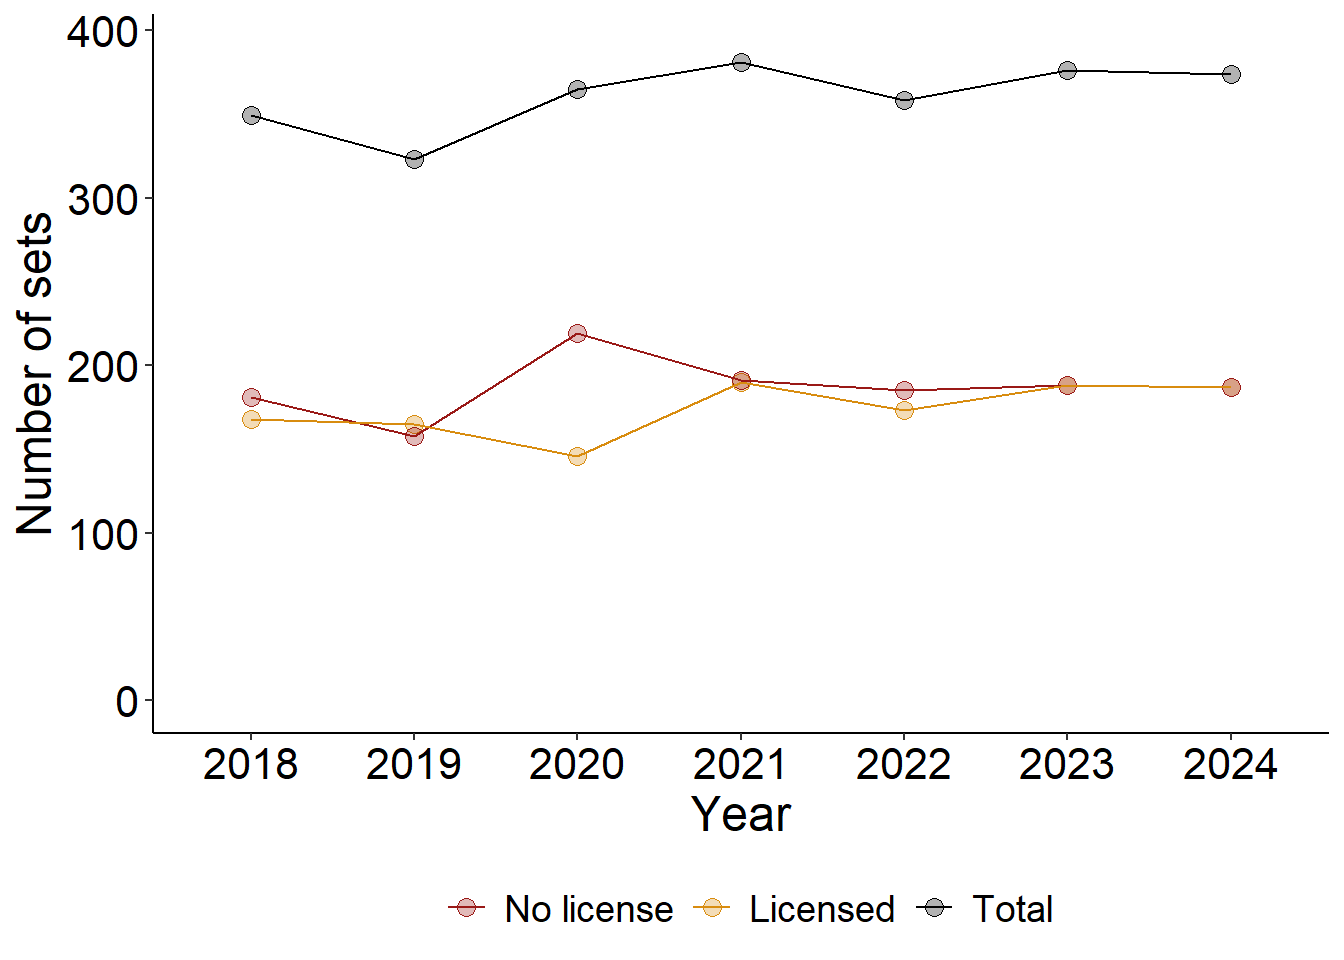
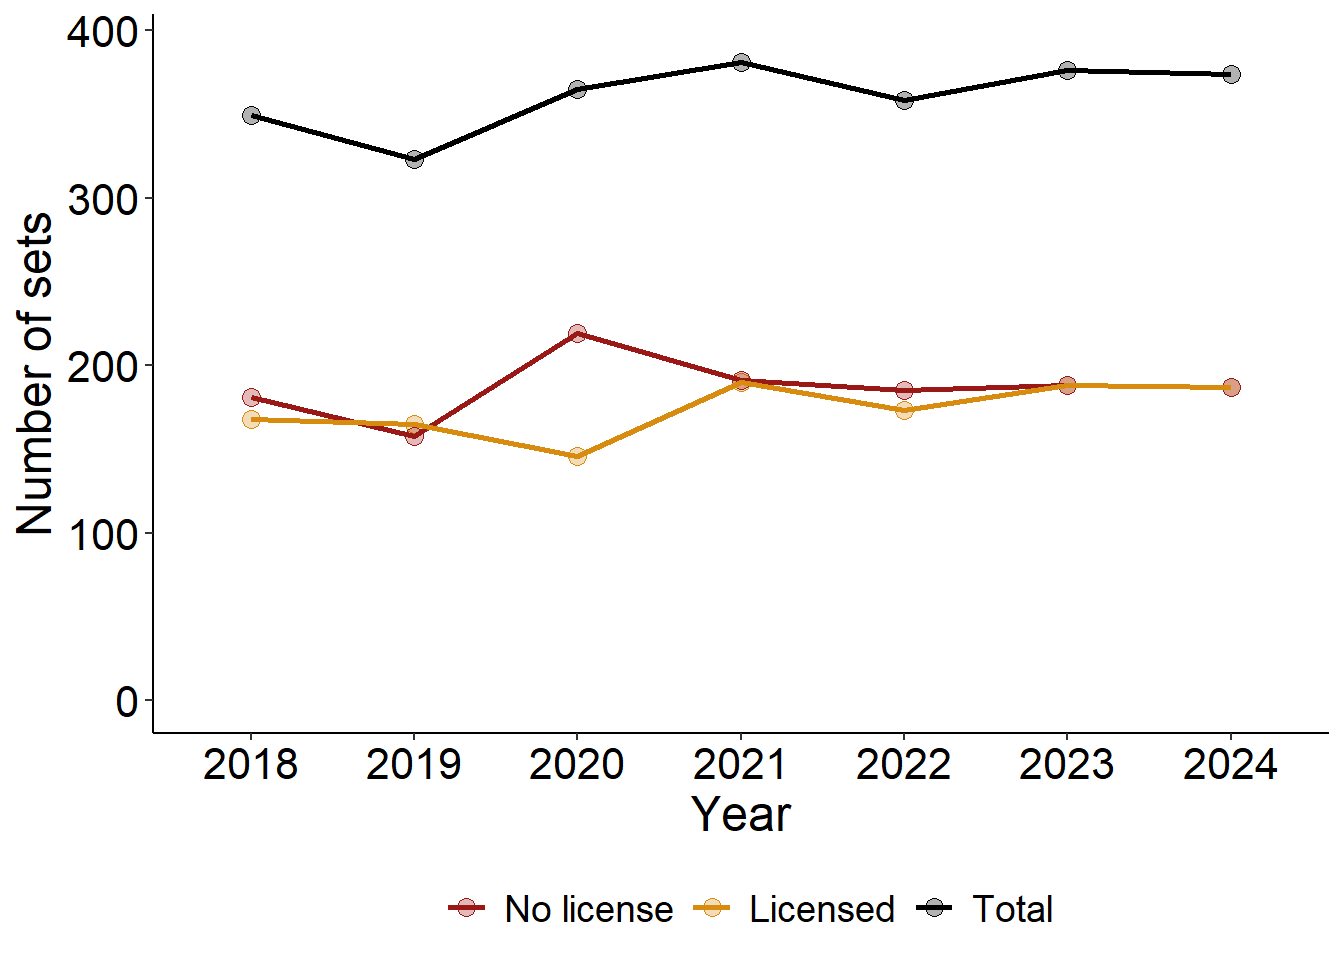
Update

diff --git a/docs/data_science_experience/posts/LegoSetPrices.html b/docs/data_science_experience/posts/LegoSetPrices.html
@@ -558,7 +558,7 @@ Table&nbsp;2: First 5 rows of <code>sets_18to24_filt</code>.
 <span id="cb7-9"><a href="#cb7-9" aria-hidden="true" tabindex="-1"></a></span>
 <span id="cb7-10"><a href="#cb7-10" aria-hidden="true" tabindex="-1"></a><span class="fu">ggplot</span>(df_release_yr) <span class="sc">+</span></span>
 <span id="cb7-11"><a href="#cb7-11" aria-hidden="true" tabindex="-1"></a>  <span class="fu">geom_point</span>(<span class="fu">aes</span>(<span class="at">x =</span> year, <span class="at">y =</span> n_sets, <span class="at">color =</span> License, <span class="at">fill =</span> License), <span class="at">pch =</span> <span class="dv">21</span>, <span class="at">size =</span> <span class="dv">3</span>) <span class="sc">+</span></span>
-<span id="cb7-12"><a href="#cb7-12" aria-hidden="true" tabindex="-1"></a>  <span class="fu">geom_line</span>(<span class="fu">aes</span>(<span class="at">x =</span> year, <span class="at">y =</span> n_sets, <span class="at">color =</span> License, <span class="at">group =</span> License)) <span class="sc">+</span></span>
+<span id="cb7-12"><a href="#cb7-12" aria-hidden="true" tabindex="-1"></a>  <span class="fu">geom_line</span>(<span class="fu">aes</span>(<span class="at">x =</span> year, <span class="at">y =</span> n_sets, <span class="at">color =</span> License, <span class="at">group =</span> License), <span class="at">linewidth =</span> <span class="dv">1</span>) <span class="sc">+</span></span>
 <span id="cb7-13"><a href="#cb7-13" aria-hidden="true" tabindex="-1"></a>  <span class="fu">scale_x_discrete</span>(<span class="at">name =</span> <span class="st">"Year"</span>) <span class="sc">+</span></span>
 <span id="cb7-14"><a href="#cb7-14" aria-hidden="true" tabindex="-1"></a>  <span class="fu">scale_y_continuous</span>(<span class="at">name =</span> <span class="st">"Number of sets"</span>) <span class="sc">+</span></span>
 <span id="cb7-15"><a href="#cb7-15" aria-hidden="true" tabindex="-1"></a>  <span class="fu">coord_cartesian</span>(<span class="at">ylim =</span> <span class="fu">c</span>(<span class="dv">0</span>, <span class="dv">390</span>)) <span class="sc">+</span></span>
@@ -1098,8 +1098,8 @@ Table&nbsp;3: Lego sets with a price-to-part ratio over 0.5 Euro per piece.
 <details class="code-fold">
 <summary>Show code</summary>
 <div class="sourceCode cell-code" id="cb13"><pre class="sourceCode r code-with-copy"><code class="sourceCode r"><span id="cb13-1"><a href="#cb13-1" aria-hidden="true" tabindex="-1"></a><span class="fu">ggplot</span>(df_ptp_stats) <span class="sc">+</span></span>
-<span id="cb13-2"><a href="#cb13-2" aria-hidden="true" tabindex="-1"></a>  <span class="fu">geom_line</span>(<span class="fu">aes</span>(<span class="at">x =</span> year, <span class="at">y =</span> <span class="st">`</span><span class="at">mean PtP ratio</span><span class="st">`</span>, <span class="at">color =</span> License, <span class="at">group =</span> License)) <span class="sc">+</span></span>
-<span id="cb13-3"><a href="#cb13-3" aria-hidden="true" tabindex="-1"></a>  <span class="fu">geom_point</span>(<span class="fu">aes</span>(<span class="at">x =</span> year, <span class="at">y =</span> <span class="st">`</span><span class="at">mean PtP ratio</span><span class="st">`</span>, <span class="at">color =</span> License, <span class="at">fill =</span> License), <span class="at">pch =</span> <span class="dv">21</span>, <span class="at">size =</span> <span class="dv">2</span>) <span class="sc">+</span></span>
+<span id="cb13-2"><a href="#cb13-2" aria-hidden="true" tabindex="-1"></a>  <span class="fu">geom_line</span>(<span class="fu">aes</span>(<span class="at">x =</span> year, <span class="at">y =</span> <span class="st">`</span><span class="at">mean PtP ratio</span><span class="st">`</span>, <span class="at">color =</span> License, <span class="at">group =</span> License), <span class="at">linewidth =</span> <span class="dv">1</span>) <span class="sc">+</span></span>
+<span id="cb13-3"><a href="#cb13-3" aria-hidden="true" tabindex="-1"></a>  <span class="fu">geom_point</span>(<span class="fu">aes</span>(<span class="at">x =</span> year, <span class="at">y =</span> <span class="st">`</span><span class="at">mean PtP ratio</span><span class="st">`</span>, <span class="at">color =</span> License, <span class="at">fill =</span> License), <span class="at">pch =</span> <span class="dv">21</span>, <span class="at">size =</span> <span class="dv">3</span>) <span class="sc">+</span></span>
 <span id="cb13-4"><a href="#cb13-4" aria-hidden="true" tabindex="-1"></a>  <span class="fu">scale_x_discrete</span>(<span class="at">name =</span> <span class="st">"Year"</span>) <span class="sc">+</span></span>
 <span id="cb13-5"><a href="#cb13-5" aria-hidden="true" tabindex="-1"></a>  <span class="fu">scale_y_continuous</span>(<span class="at">name =</span> <span class="st">"Mean price-to-part ratio"</span>) <span class="sc">+</span></span>
 <span id="cb13-6"><a href="#cb13-6" aria-hidden="true" tabindex="-1"></a>  <span class="fu">coord_cartesian</span>(<span class="at">ylim =</span> <span class="fu">c</span>(<span class="dv">0</span>, <span class="fl">0.15</span>)) <span class="sc">+</span></span>

diff --git a/docs/data_science_experience/datsciexp.html b/docs/data_science_experience/datsciexp.html
@@ -203,7 +203,7 @@ window.Quarto = {
 
 <div class="quarto-listing quarto-listing-container-default" id="listing-listing">
 <div class="list quarto-listing-default">
-<div class="quarto-post image-right" data-index="0" data-listing-date-sort="1721512800000" data-listing-file-modified-sort="1721680049399" data-listing-date-modified-sort="NaN" data-listing-reading-time-sort="13" data-listing-word-count-sort="2574">
+<div class="quarto-post image-right" data-index="0" data-listing-date-sort="1721512800000" data-listing-file-modified-sort="1721680959013" data-listing-date-modified-sort="NaN" data-listing-reading-time-sort="13" data-listing-word-count-sort="2580">
 <div class="thumbnail">
 <p><a href="../data_science_experience/posts/LegoSetPrices.html" class="no-external"></a></p><a href="../data_science_experience/posts/LegoSetPrices.html" class="no-external">
 <p class="card-img-top"><img src="posts\LegoSetPrices_files\figure-html\fig-sets_released-1.png"  class="thumbnail-image card-img"/></p>
